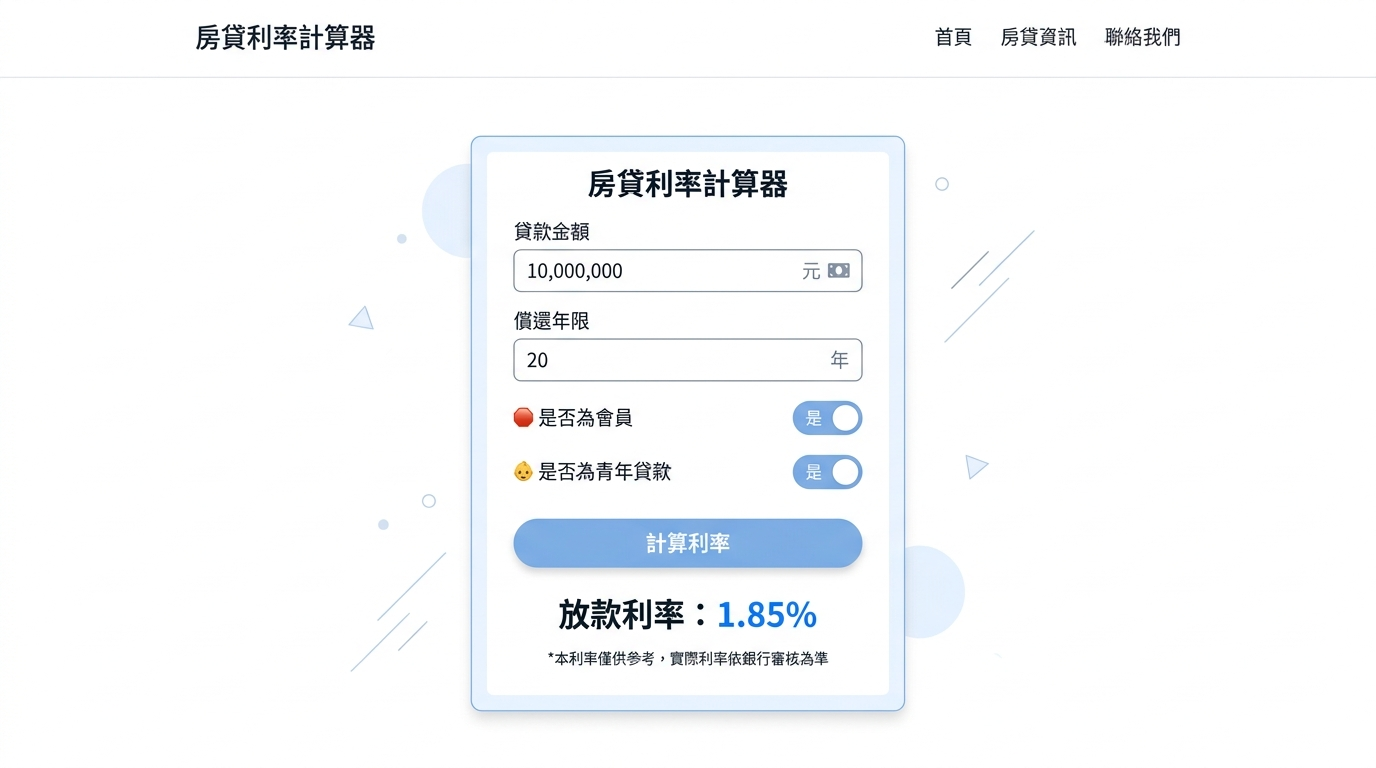
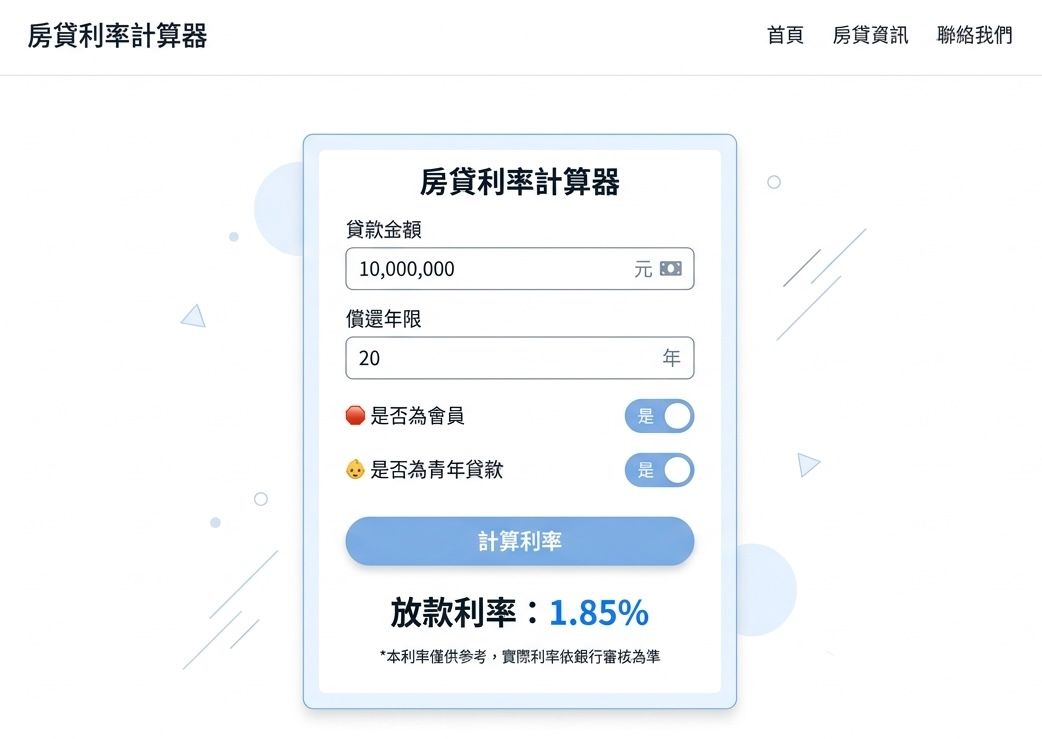
style: replace all remaining HackMD colon emoji tags with standard Unicode emojis

diff --git a/Lecture/ch05_blackbox.md b/Lecture/ch05_blackbox.md
@@ -106,7 +106,7 @@ if (tall > 180)
 
 #### SwimmingPool
 > [!NOTE]
-> :basketball: 以下是逢甲游泳池收費系統的規則：
+> 🏀 以下是逢甲游泳池收費系統的規則：
 > * (1) 一般票價 200 
 > * (2) 星期六日250元,除會員以外不打折 
 > * (3) 12歲以下、60歲（含）以上打八折，限定 3-75 歲可入內游泳 
@@ -189,7 +189,7 @@ FIG: 三角形程式：非獨立型一般邊界測試
 通常邊界測試與等價分割一起使用，接下來看等價分割。
 
 > [!NOTE]
-> :basketball: 如[游泳池收費系統](#SwimmingPool)，請改以非獨立測試進行。
+> 🏀 如[游泳池收費系統](#SwimmingPool)，請改以非獨立測試進行。
 
 * [游泳池測試案例](https://docs.google.com/spreadsheets/d/1aE21HM1CCYPJtRBcb2hvYnHtOtqTdbzhQizSfn26hPk/edit?gid=0#gid=0)
 * [三角形測試案例](https://docs.google.com/spreadsheets/d/1fIEwtWf-MoXyBnr1eCET8lsrLSKQgCnYiq6w9WGZOMQ/edit?gid=1805558459#gid=1805558459)
@@ -254,7 +254,7 @@ FIG: 成績程式的等價分割
 
 #### Binary-Search
 > [!NOTE]
-> :basketball: Binary Search
+> 🏀 Binary Search
 >
 > 針對以下 Binary Search 的設計規格（注意這不是程式碼，裡面甚至也沒有演算法），依據等價分割的方法來進行測試案例設計。
 >
@@ -305,7 +305,7 @@ FIG: Binary Search 的等價分割測試（*k*: key; *a*: array; *f*: found; *c*
 
 #### Tomorrow
 > [!NOTE]
-> :basketball: nextDate()
+> 🏀 nextDate()
 >
 > 考慮 1812- 2012 年的任何日期，輸入一個日期，輸出他的下一天日期。注意：四的倍數是潤年，但 1900 除外。
 
@@ -348,7 +348,7 @@ FIG: Binary Search 的等價分割測試（*k*: key; *a*: array; *f*: found; *c*
 
 #### Swimming-pool-partition-testing
 > [!NOTE]
-> :basketball: 針對[游泳池收費系統](#SwimmingPool)，請改以等價分割弱涵蓋方式進行測試
+> 🏀 針對[游泳池收費系統](#SwimmingPool)，請改以等價分割弱涵蓋方式進行測試
 > 1. 每一個列舉的資料都應該成為一個分割
 > 2. 考慮邊界，將邊界也列為一個分割
 > 3. 請先以 excel 規劃，再以 JUnit 程式碼實踐
@@ -365,12 +365,12 @@ FIG: Binary Search 的等價分割測試（*k*: key; *a*: array; *f*: found; *c*
 看過前述幾個例子，當我們要執行非獨立測試時，測試案例的成長是很可怕的，例如有 $n$ 個變數，每一個可能有 $m$ 個分割，如果我們每個分割取一個值來做非獨立測試，則有 $m^n$ 個測試案例需要測試。這樣近乎窮盡式的測試方法 在成本可能太高。
 
 > [!NOTE]
-> :point_right: ==All-pairs testing==: A combinatorial method of software testing that, for each pair of input parameters to a system (typically, a software algorithm), tests all possible discrete combinations of those parameters. Also called *pairwise testing*.
+> 👉 ==All-pairs testing==: A combinatorial method of software testing that, for each pair of input parameters to a system (typically, a software algorithm), tests all possible discrete combinations of those parameters. Also called *pairwise testing*.
 > 成對錯誤假設：錯誤會發生在兩兩配對的情況。
 
 #### Swimming-Pool-Simple
 > [!NOTE]
-> :basketball: 游泳池收費
+> 🏀 游泳池收費
 > > 凱旋游泳池標準收費為 100 元。 (1) 星期六日200元, 除會員以外不打折。(2) 清晨6:00 以前所有人打八折; 中午11:00-13:00 九折 ▫  (3) 會員一律打五折。各打折不可重複，以最低價為主。
 >
 > - d: {d1, d2} 分別代表 星期六日、一般時間。 
@@ -454,7 +454,7 @@ Table: 表格說明
 
 #### Loan-testing
 > [!NOTE]
-> :basketball: 貸款
+> 🏀 貸款
 >
 > 是一個放款利率計算的部份介面。已知利率與貸款的金額、償還年限、是否為會員、是否是青年貸款有關係。請應用全成對測試策略，並用交錯法來設計測試案例。
 >
@@ -663,7 +663,7 @@ FIG: 全狀態轉移涵蓋
 我們來看看如何應用 JUnit進行物件的狀態測試。
 #### Stack-test
 > [!NOTE]
-> :basketball: test Stack
+> 🏀 test Stack
 >
 > 設計一個 Stack 物件，裡面用陣列來儲存內容。有以下的介面：
 > - `Stack(int n)`: 宣告裡面內容為 n 個的 Stack; 
@@ -702,7 +702,7 @@ s.pop();
 assertTrue(s.isEmpty());
 ```
 
-:joy: 我是一個苦命的程式設計師，今晚加班到快通宵了，睏得快睜不開眼了，女上司很關心，問我要不要吃宵夜。我沒好氣地說，宵夜就算了，能讓我睡一覺就行了。女上司紅著臉說了句討厭啊，然後坐在我身邊不動，距離我很近，搞得我很緊張... *難道她發現我的程式有 bug？*
+😂 我是一個苦命的程式設計師，今晚加班到快通宵了，睏得快睜不開眼了，女上司很關心，問我要不要吃宵夜。我沒好氣地說，宵夜就算了，能讓我睡一覺就行了。女上司紅著臉說了句討厭啊，然後坐在我身邊不動，距離我很近，搞得我很緊張... *難道她發現我的程式有 bug？*
 
 See [DemoJUnit](https://github.com/nlhsueh/sw-testing24/tree/main/Intellij/DemoJunit) 下 `state/Stack` 的完整程式碼與測試碼。
 

diff --git a/Lecture/ch06_whitebox.md b/Lecture/ch06_whitebox.md
@@ -507,7 +507,7 @@ int getMax2(int x, int y) {
 - 回到步驟 3，直到 存活變異體 為空。
 
 > [!NOTE]
-> :football: 考慮以下的程式 *P*。若我們有兩個變異 $P_1$ 是把 && 改成 ||， $P_2$ 是把 == 改成 <=，請問 test case (x=10, y=10) 能夠 kill 哪些變異？其所代表的涵意為何？
+> 🏈 考慮以下的程式 *P*。若我們有兩個變異 $P_1$ 是把 && 改成 ||， $P_2$ 是把 == 改成 <=，請問 test case (x=10, y=10) 能夠 kill 哪些變異？其所代表的涵意為何？
 >
 > ```java
 > read(X, Y)
@@ -558,7 +558,7 @@ $p_1$, $p_2$, $p_3$ 這三個變異都是等價變異，任何資料都無法將
 
 #### ex_mutation_test
 > [!NOTE]
-> :football: 針對以下程式 P 及其變異，回答 (1) 哪些是 被刪除變異體? (2) 這些這是案例有效嗎？變異刪除率為何？(3) 承2, 如果測試案例不有效，請新增測試案例。 
+> 🏈 針對以下程式 P 及其變異，回答 (1) 哪些是 被刪除變異體? (2) 這些這是案例有效嗎？變異刪除率為何？(3) 承2, 如果測試案例不有效，請新增測試案例。 
 >
 > ```python=
 > t1=[1,2,3]
@@ -667,7 +667,7 @@ $p_1$, $p_2$, $p_3$ 這三個變異都是等價變異，任何資料都無法將
 
 #### ex-coverage-xy	
 > [!NOTE]
-> :football: 針對以下程式 
+> 🏈 針對以下程式 
 >
 > ```java
 > read(X, Y)
@@ -754,7 +754,7 @@ $p_1$, $p_2$, $p_3$ 這三個變異都是等價變異，任何資料都無法將
 
 #### ex-basis-path-testing-next-date
 > [!NOTE]
-> :football: 針對程式 [nextDate](#code-nextDate)，利用 basis path testing 的方式設計測試案例。
+> 🏈 針對程式 [nextDate](#code-nextDate)，利用 basis path testing 的方式設計測試案例。
 >
 > 	- Cyclomatic complexity 為何
 > 	- Independent path 為何？
@@ -807,7 +807,7 @@ $p_1$, $p_2$, $p_3$ 這三個變異都是等價變異，任何資料都無法將
 
 
 > [!NOTE]
-> :football: 針對 [nextDate](#code-nextDate) 進行資料流測試：
+> 🏈 針對 [nextDate](#code-nextDate) 進行資料流測試：
 >
 > 	- All definition testing 
 > 	- All c-use testing
@@ -857,7 +857,7 @@ while (…) {
 
 #### ex-mutation-xy
 > [!NOTE]
-> :football: 變異測試
+> 🏈 變異測試
 > 針對下方此程式，我們採用 mutation test 的方式來檢驗測試案例，假設我們產生以下變異：
 > * P1 是把第二行的 && 改成 || (or)
 > * P2 是把 == 改成 >=

diff --git a/Lecture/ch07_integration.md b/Lecture/ch07_integration.md
@@ -94,7 +94,7 @@ int[] getPrimeNumber(int x) {
 
 #### ex-print-prime
 > [!NOTE]
-> :football: 質數列印
+> 🏈 質數列印
 > 有一個程式會列印出小於 n 的所有質數，這個程式分為三個模組：Displayer 主要負責資料的呈現，他會呼叫 allPrime 來取得所有的質數。AllPrime 會呼叫 isPrime 來判斷某個數是否為質數。假設這三個程式由三個人負責，他們如何設計 stub/driver？
 
 Displayer 呼叫 allPrime(n), 我們可以先做一個 stub，固定回傳一個陣列，裡面放的是 小於 n 的質數。
@@ -377,7 +377,7 @@ Mokito 的好處為：
 
 #### ex-mokito-grade-displayer
 > [!NOTE]
-> :football: 成績顯示
+> 🏈 成績顯示
 > [圖 fig-gradedislayer](#fig-grade-player) 是一個成績顯示的程式架構，subjectGrade[i][j] 表示 學生 i, 在科目 j 上的成績。grade[k] 表示學生 k 所有科目的平均。
 >
 > - 本專案採取平行開發，五個模組分別由 A, B, C, D, F 等人開發。一開始開發時，A（GradeDisplayer）的開發重點為何？該如何進行測試（mock? stubbed method? verify? assertion?）？
@@ -606,6 +606,6 @@ public class BinarySearchIntegrationTest {
 
 
 > [!CAUTION]
-> :smile: 程式有問題時不要擔心。如果所有東西都沒問題，你就失業了。
+> 😊 程式有問題時不要擔心。如果所有東西都沒問題，你就失業了。
 >
 > *Don't worry if it doesn't work right. If everything did, you'd be out of a job.（Mosher's Law of software engineering）*

diff --git a/Lecture/ch08_system.md b/Lecture/ch08_system.md
@@ -198,7 +198,7 @@ Neilsen 檢驗法是一種專家檢驗法，包含以下的檢測項目：與真
 > 不懂電腦的人，往往是最好的測試者。
 
 > [!NOTE]
-> :football: 系統 UX 檢驗
+> 🏈 系統 UX 檢驗
 > 針對一個你常用的應用軟體（ 例如 line 或 選課系統），以 Neilsen 的方式檢視其符合程度：該軟體有哪些優缺點？該如何改善？
 
 ### Hollway 檢測法
@@ -443,7 +443,7 @@ Record and replay
 ![image](../img/ch08/r1uUNxSET.png)
 
 
-:football: Lab: **資料驗證**。
+🏈 Lab: **資料驗證**。
 承上例，已知最後的數字落在 0-100 之間，若我們輸入 -100 系統會出現 higher 的內容; 若輸入 200 會輸出 lower 的內容。請設計測試案例確定系統具備這樣的行為。
 
 - 先在網頁上按右鍵 >> 觀看程式碼，找出輸入值的變數名稱。此範例為 guess。
